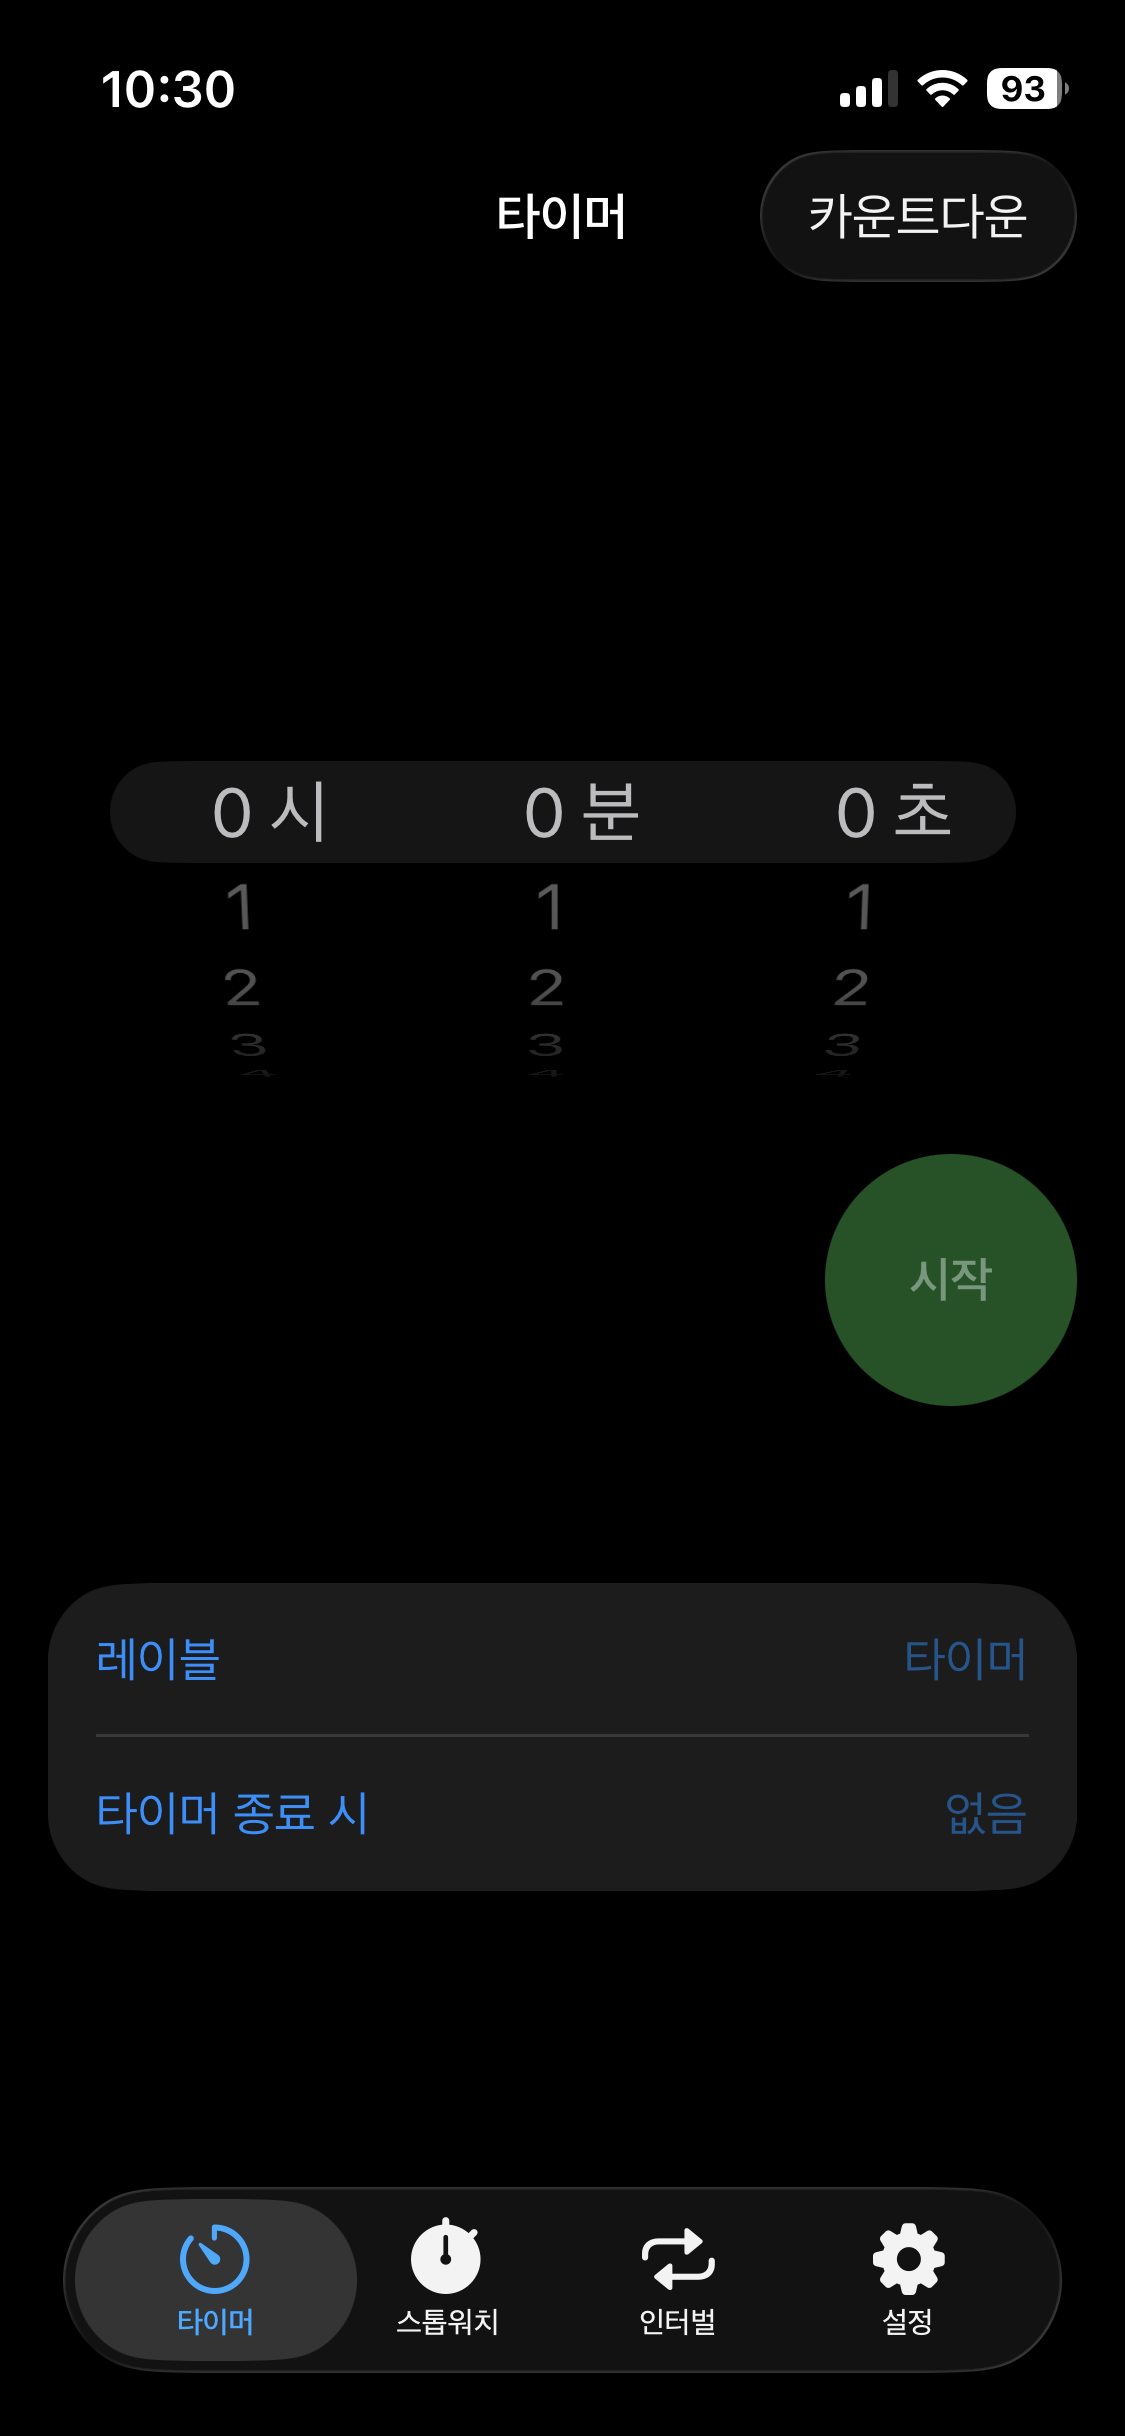
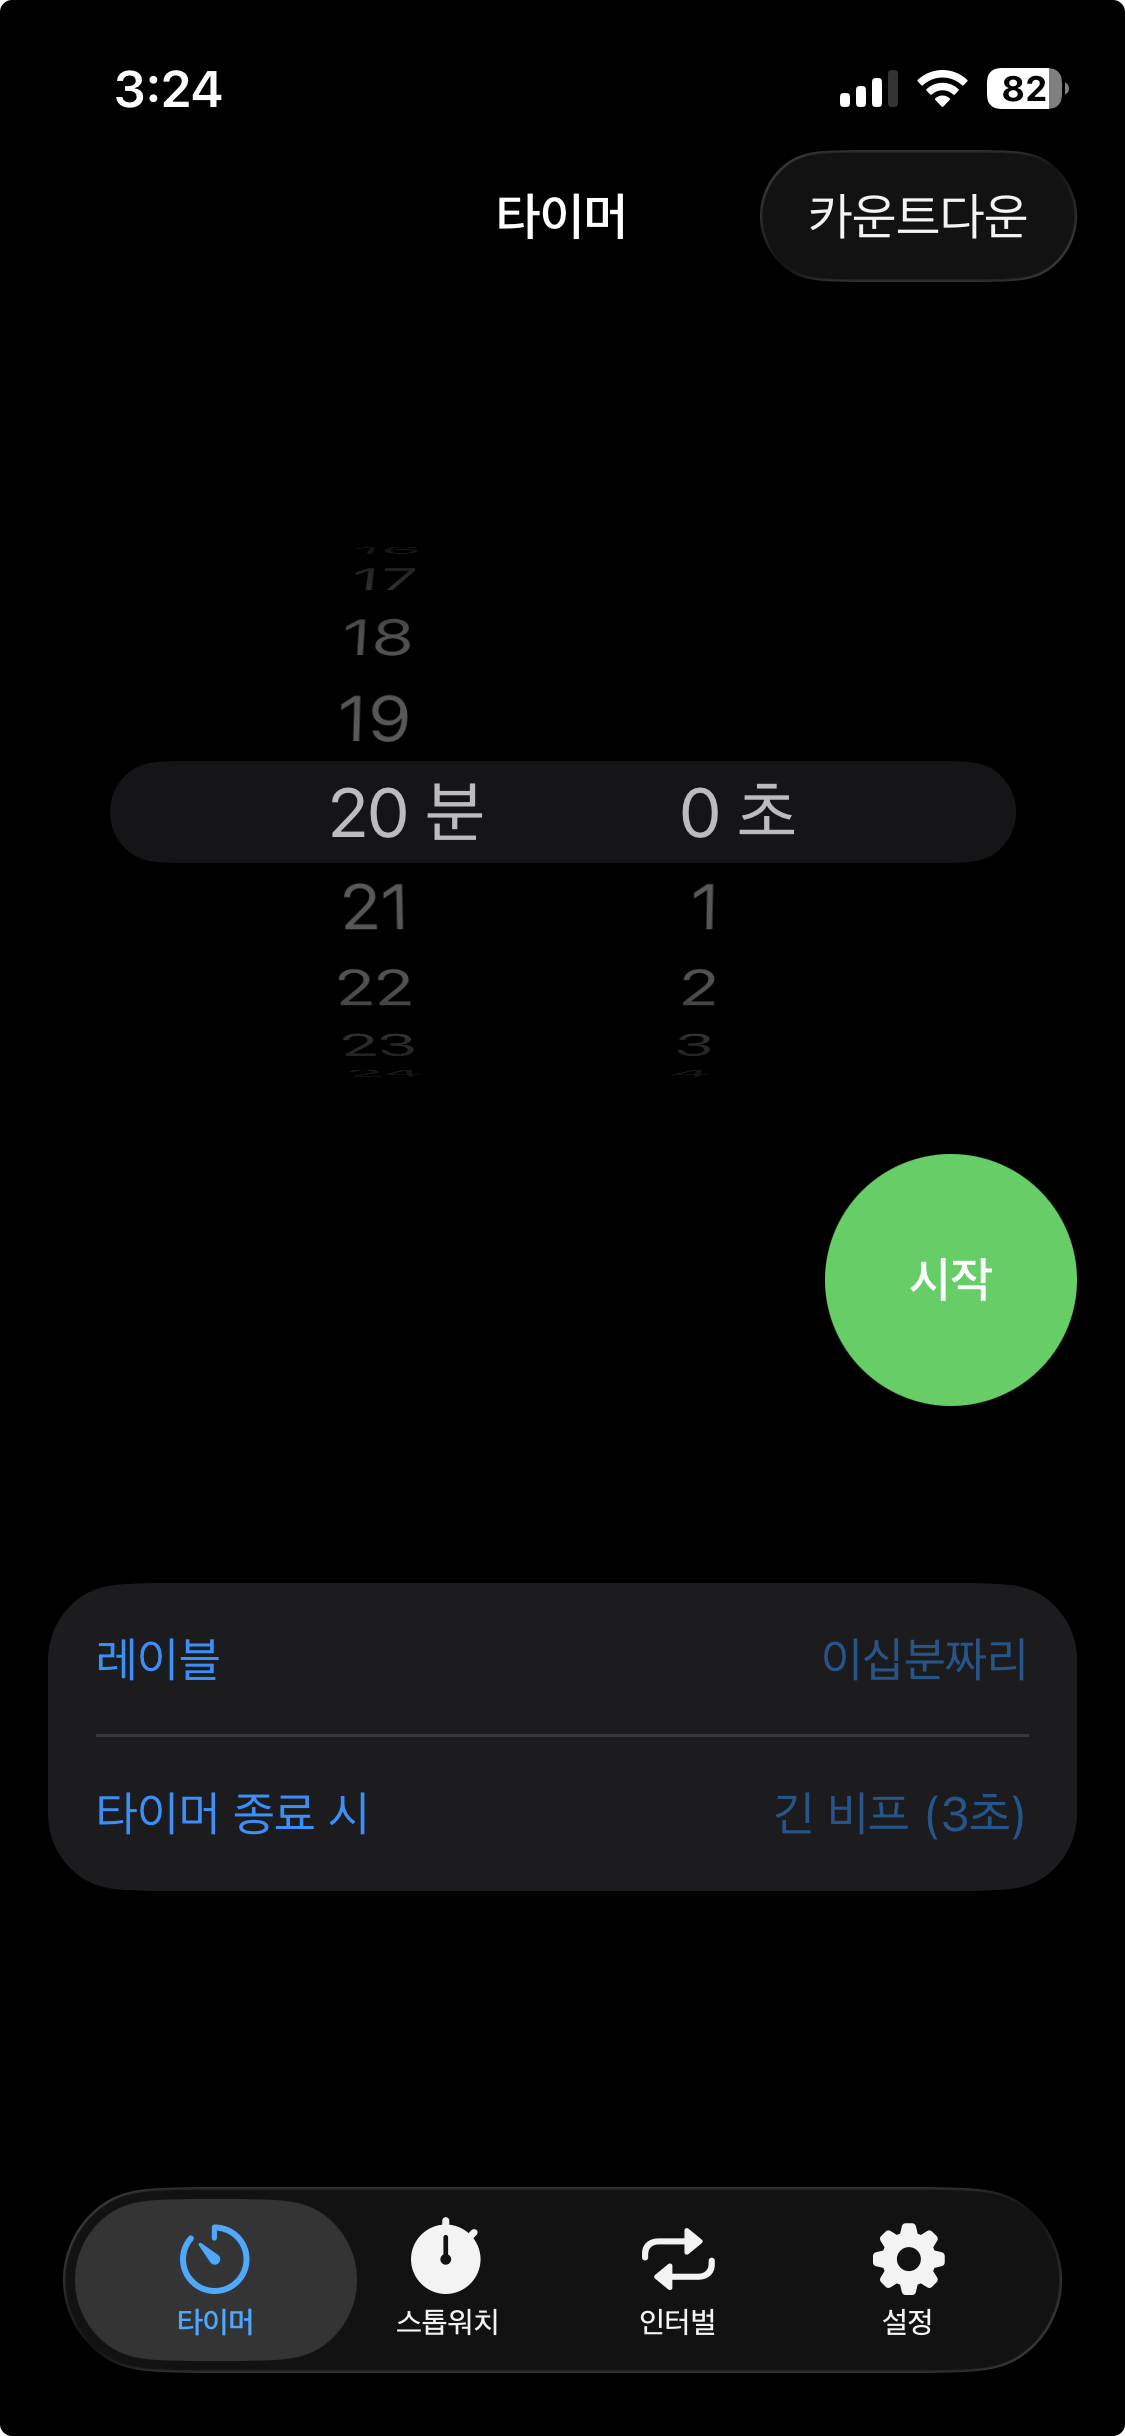
docs: mm:ss 타이머 포맷 변경에 맞춰 문서 현행화, 화면 미러링 각주 추가
- navigation-structure.md/testing-strategy.md/timer-functional-spec.md/use-cases/timer.md의
  HH:MM:SS·23:59:59·시/분/초 picker 서술을 MM:SS·99:59·분/초로 정리(이슈 #86 반영)
- README 화면 미러링 대응 항목에 AirPlay 전용/같은 Wi-Fi 필요/안드로이드 미지원 각주(blockquote) 추가
- timer.png 스크린샷 갱신

diff --git a/docs/use-cases/timer.md b/docs/use-cases/timer.md
@@ -17,12 +17,12 @@
 - 사용자는 타이머 화면에 접근할 수 있다.
 - 타이머는 처음 열릴 때 카운트다운 모드로 표시된다.
 - 화면 우측 상단에는 카운트다운과 카운트업을 즉시 전환하는 토글 버튼이 있다.
-- 사용자는 시간, 분, 초를 드래그 picker로 설정할 수 있다.
-- 시간은 `00~23`, 분과 초는 `00~59` 범위에서 선택할 수 있다.
+- 사용자는 분, 초를 드래그 picker로 설정할 수 있다.
+- 분은 `00~99`, 초는 `00~59` 범위에서 선택할 수 있다.
 
 ## 화면 구성
 
-- 시간/분/초가 하나로 합쳐진 카운트다운 picker(대기 상태에서만 보인다).
+- 분/초가 하나로 합쳐진 카운트다운 picker(대기 상태에서만 보인다).
 - **레이블**: 타이머 이름을 입력하는 텍스트 필드. 기본값(입력값)은 없고 "타이머"를
   placeholder로 보여준다. 비워두면 "타이머"로 처리한다. 면 삶기, 휴식시간, 운동처럼
   실제 용도로 바꿔 쓸 수 있다.
@@ -35,12 +35,12 @@
 ## 기본 흐름
 
 1. 사용자가 타이머를 연다.
-2. 사용자가 시간, 분, 초를 드래그로 설정한다. 필요하면 레이블과 종료 시 사운드도 지정한다.
+2. 사용자가 분, 초를 드래그로 설정한다. 필요하면 레이블과 종료 시 사운드도 지정한다.
 3. 사용자가 시작 버튼을 누른다.
 4. 앱은 picker와 레이블/사운드 입력을 수정 불가 상태로 전환한다.
 5. 현재 모드로 타이머를 실행한다.
-6. 카운트다운 모드는 설정 시간에서 `00:00:00`까지 감소한다.
-7. 카운트업 모드는 `00:00:00`에서 설정 시간까지 증가한다.
+6. 카운트다운 모드는 설정 시간에서 `00:00`까지 감소한다.
+7. 카운트업 모드는 `00:00`에서 설정 시간까지 증가한다.
 8. 종료 시 설정한 알림 큐(사운드)와 네이티브 알림 배너를 실행한다.
 
 ## 상시 옵션
@@ -55,7 +55,7 @@
 - 사용자는 실행 중 일시정지할 수 있다.
 - 사용자는 일시정지 상태에서 재개할 수 있다.
 - 사용자는 일시정지 상태에서 리셋할 수 있다.
-- 입력 시간이 `00:00:00`이면 시작할 수 없다.
+- 입력 시간이 `00:00`이면 시작할 수 없다.
 - 사용자가 알림 권한을 거부하면 네이티브 배너는 표시하지 않는다.
 - 동일 설정(시간/레이블/사운드)을 리셋 후 다시 실행할 수 있다.
 
@@ -64,13 +64,13 @@
 ```mermaid
 %%{init: {"theme": "base", "themeVariables": {"background": "transparent", "primaryColor": "#FFFFFF", "primaryTextColor": "#111111", "primaryBorderColor": "#111111", "lineColor": "#111111", "tertiaryColor": "#F7F7F2"}}}%%
 flowchart TD
-  A["타이머 열기"] --> B["시간 / 분 / 초 설정"]
+  A["타이머 열기"] --> B["분 / 초 설정"]
   B --> B2["레이블 / 종료 시 사운드 설정"]
   B2 --> C["시작"]
   C --> D["picker 및 입력 잠금"]
   D --> E["현재 모드로 타이머 실행"]
   E --> F["카운트다운: 설정 시간에서 감소"]
-  E --> G["카운트업: 00:00:00부터 증가"]
+  E --> G["카운트업: 00:00부터 증가"]
   F --> H["사용자 조작 또는 종료 대기"]
   G --> H
   H --> I["일시정지"]
@@ -96,14 +96,14 @@ flowchart TD
 - 타이머의 기본 모드는 카운트다운이다.
 - 카운트다운과 카운트업은 별도 메뉴가 아니라 화면 우측 상단 토글 버튼으로 제공된다.
 - 카운트업 전환은 기본 흐름의 단계가 아니라 타이머 상태와 무관하게 상시 접근 가능한 옵션이다.
-- 시간, 분, 초는 키보드가 아니라 드래그 picker로 설정한다.
-- 시간은 `00~23`, 분과 초는 `00~59`까지 선택할 수 있다.
+- 분, 초는 키보드가 아니라 드래그 picker로 설정한다.
+- 분은 `00~99`, 초는 `00~59`까지 선택할 수 있다.
 - 레이블을 입력할 수 있다. 비워두면 "타이머"로 처리한다.
 - 종료 시 사운드를 선택할 수 있다("없음" 포함).
 - 대기 상태에는 우측 원형 시작 버튼만 있고, 좌측에는 버튼이 없다.
 - 실행 중에는 picker와 레이블/사운드 입력 폼이 화면에서 사라지고, 레이블만 시간 표시
   위쪽에 대신 표시된다.
 - 일시정지 상태에서 재개와 리셋이 가능하다.
-- 카운트다운은 `00:00:00`에서 종료된다.
+- 카운트다운은 `00:00`에서 종료된다.
 - 카운트업은 설정 시간에 도달하면 종료된다.
 - 종료 시 진동, 사운드 큐, 네이티브 알림 배너를 실행할 수 있다.

diff --git a/docs/testing-strategy.md b/docs/testing-strategy.md
@@ -18,7 +18,7 @@
 
 1. **인터벌 실행 시퀀스 계산** — `IntervalConfig(rounds, prepareSeconds, segments)` → 실행할 구간을 순서대로 펼친 배열(`Fn`/`Cn` 라벨, 라운드 반복 포함). `docs/timer-functional-spec.md`의 "피라미드 인터벌" 예시(`F1 01:30`/`C1 00:30`/`F2 01:00`/`C2 00:20`/`F3 00:30`/`C3 00:10`을 8라운드 반복)와 "EMOM" 예시(휴식 `00:00` 구간은 건너뜀)를 그대로 테스트 케이스로 옮긴다.
 2. **기본 프리셋 값 고정(회귀 테스트)** — seed되는 `tabata`(20초/10초/8라운드), `fgb_3r`(5분/1분/3라운드), `emom`(휴식 0초, 최대 99회)이 스펙 수치와 정확히 일치하는지. 나중에 실수로 숫자가 바뀌는 것을 막는다.
-3. **시간 표시 포맷팅** — 타이머 `HH:MM:SS`(`00:00:00`~`23:59:59`), 스톱워치 `MM:SS.CS`(`00:00.00`~`99:59.99`), 인터벌 `Fn`/`Cn` 라벨. 최댓값·0 근접 경계값을 포함한다.
+3. **시간 표시 포맷팅** — 타이머 `MM:SS`(`00:00`~`99:59`), 스톱워치 `MM:SS.CS`(`00:00.00`~`99:59.99`), 인터벌 `Fn`/`Cn` 라벨. 최댓값·0 근접 경계값을 포함한다.
 4. **알림 큐 트리거 판정** — 경과/잔여 시간과 `CueConfig`(`countdownLeadSeconds: 3` 등)를 입력받아 "지금 어떤 이벤트가 발동해야 하는가"를 판정하는 순수 함수. 준비 카운트다운 시작/시작 전 카운트다운/운동 시작/휴식 시작/구간 종료/라운드 종료/마지막 라운드 진입/전체 종료, 8개 이벤트 각각 최소 1개 케이스를 둔다.
 5. **프리셋 입력값 검증** — 인터벌 세트 수(1~9), 라운드 수(1~99), 구간 시간(`00:00`~`99:59`) 범위를 벗어난 입력을 거부하는지.
 6. **SwiftData 통합 테스트**(in-memory `ModelContainer`) — 앱 최초 실행 시 기본 프리셋 3개가 seed되는지, 프리셋(기본/커스텀 구분 없이) 생성·수정·삭제가 정상 동작하는지, 기본 프리셋을 복제해 만든 `custom` 프리셋을 수정해도 원본이 그대로인지, `SoundAsset`/`TimerPreset`을 soft delete(`deletedAt` 설정)한 뒤 목록 조회에서 제외되는지, soft delete된 기본 프리셋이 앱 재실행 시 다시 시드되지 않는지.

diff --git a/README.md b/README.md
@@ -47,6 +47,8 @@
 
 제어센터 화면 미러링으로 TV에 연결하면, 폰 화면을 그대로 복제하는 대신 멀리서도 읽히는 전용 큰 화면을 보여줍니다.
 
+> iOS의 화면 미러링은 Apple의 AirPlay 프로토콜을 사용합니다. TV가 AirPlay(2)를 지원해야 하고, 폰과 TV가 같은 Wi-Fi 네트워크에 있어야 합니다. 크롬캐스트 전용 TV처럼 AirPlay를 지원하지 않는 기기에는 미러링할 수 없습니다. 이 앱은 iOS 전용이라 안드로이드 기기에서는 애초에 사용할 수 없습니다.
+
 ### 잠금화면·다이나믹 아일랜드 실시간 표시
 
 <img src="docs/screenshots/live-activity.png" alt="잠금화면·다이나믹 아일랜드 실시간 표시" width="30%">

diff --git a/docs/navigation-structure.md b/docs/navigation-structure.md
@@ -94,7 +94,7 @@ flowchart TD
 목적:
 
 - 하나의 화면 우측 상단 토글 버튼으로 카운트다운과 카운트업을 전환한다.
-- 시간, 분, 초를 네이티브 `Picker`(wheel style)로 설정한다.
+- 분, 초를 네이티브 `Picker`(wheel style)로 설정한다.
 - 시작하면 picker는 수정 불가 상태가 되고 남은 시간 또는 경과 시간을 표시한다.
 - 모드 토글은 타이머 상태와 무관하게 항상 접근 가능하다.
 - 일시정지 상태에서는 재개와 리셋을 제공한다.
